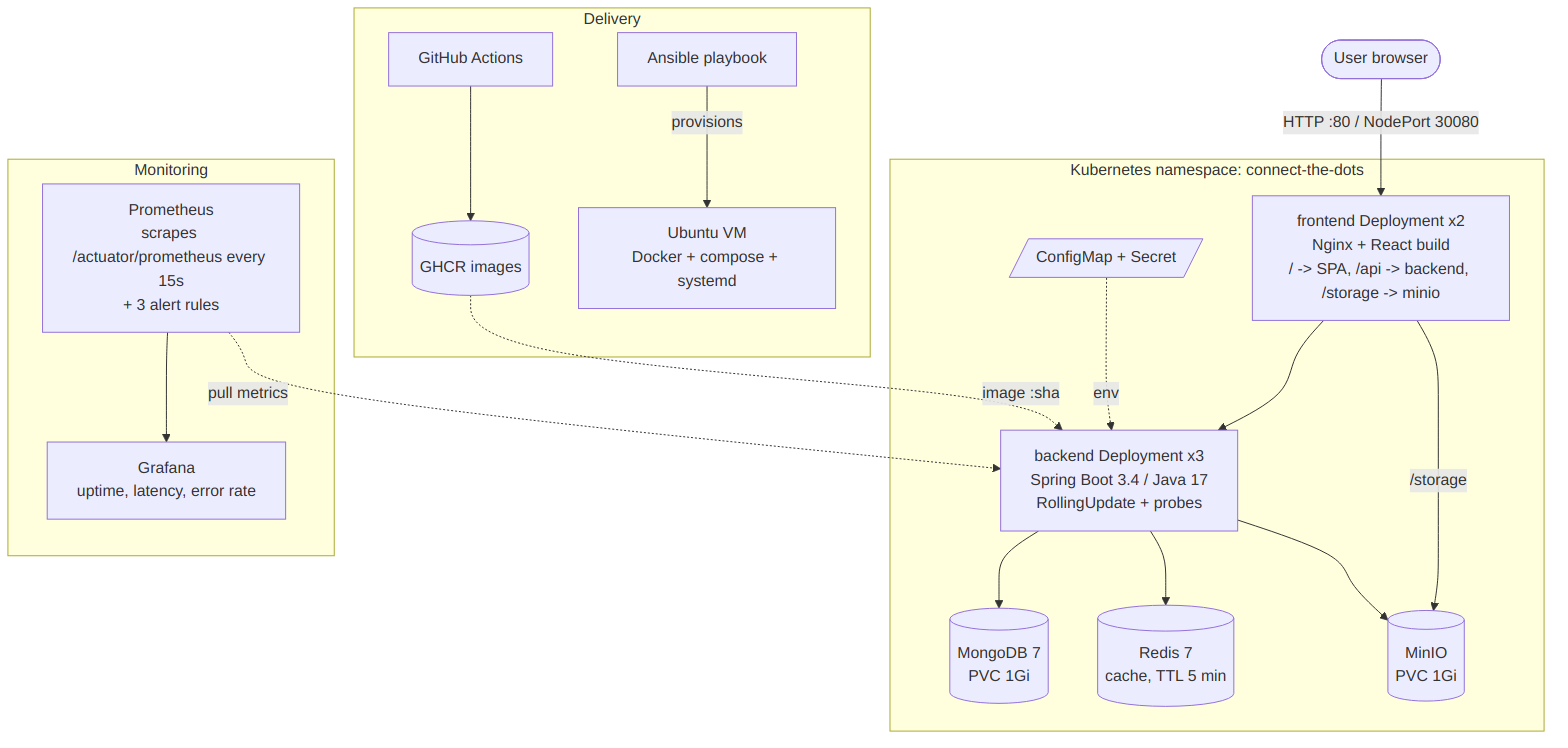
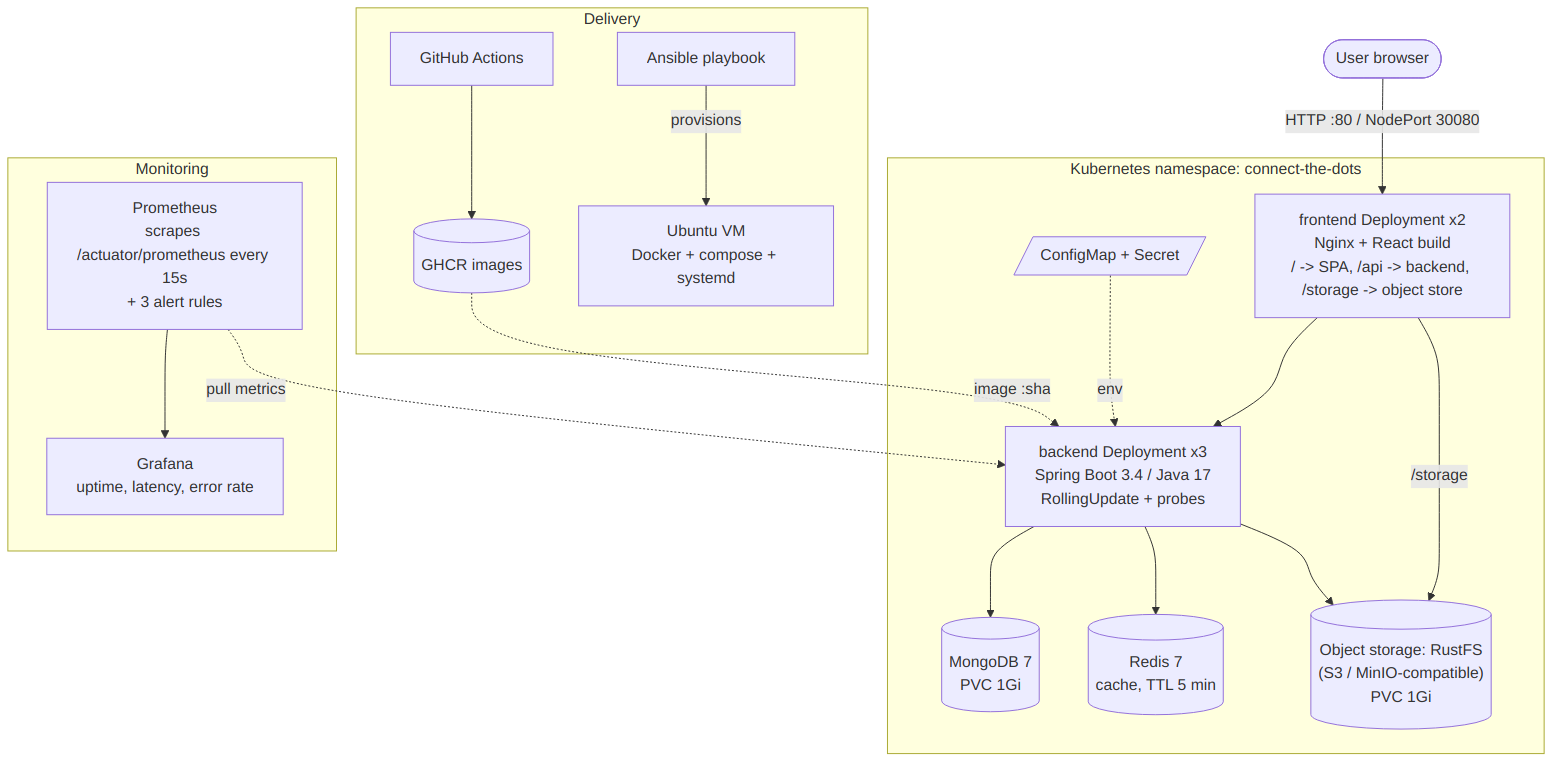
Replace MinIO image with RustFS (MinIO images removed from Docker Hub)

diff --git a/DEVOPS.md b/DEVOPS.md
@@ -20,7 +20,7 @@ The application is five services behind one entry point:
 
 - **Nginx + React (frontend)** — serves the single-page app and acts as a *reverse proxy* (a server that receives every request and forwards it to the right internal service): `/` → static files, `/api/*` → backend, `/storage/*` → MinIO.
 - **Spring Boot backend** — the only service that talks to the data stores.
-- **MongoDB** stores metadata, **Redis** caches the metadata list for 5 minutes, **MinIO** (an S3-compatible object store) stores uploaded files.
+- **MongoDB** stores metadata, **Redis** caches the metadata list for 5 minutes, **an S3-compatible object store** stores uploaded files. This was MinIO; it is now **RustFS** under the same service name `minio` (see Challenges).
 
 **What was changed in the application to support DevOps work, and why:**
 
@@ -179,7 +179,7 @@ bash scripts/generate-traffic.sh http://localhost 300
 3. **Spring Boot's slow start vs. liveness probes.** Spring Boot takes 20–40 s to start. A liveness probe alone would kill the JVM before it finished starting and cause a restart loop, so a `startupProbe` holds off liveness checks for up to 150 s.
 4. **Liveness must not depend on databases.** If Redis goes down and liveness checked Redis, Kubernetes would restart every healthy backend pod for nothing. Liveness/readiness groups check the app itself.
 5. **Hard-coded config and a committed `.env`.** Moved config to environment variables (ConfigMap/Secret, Ansible template with mode 0600).
-6. **Smoke test failed on the first real pipeline run (HTTP 503).** Every pod had rolled out and the frontend responded, but `/api/health` returned 503 because MinIO was still starting. The workflow had only waited for MongoDB and the backend, then checked health once: a race condition. Fix: wait for every deployment's rollout, and retry the health check for up to 2 minutes. Lesson: a pod being *Ready* only means that pod is ready, not that everything it depends on is.
+6. **MinIO disappeared from Docker Hub.** The first post-merge pipeline run deployed everything except storage. The backend answered `/api/health` with 503. A second run, which waited for every service, showed the real cause: the MinIO pod never became ready. Locally, `docker compose` failed with *pull access denied for minio/mc, repository does not exist*. MinIO stopped publishing free images in October 2025 and deleted its Docker Hub repositories in September 2026, so the original project's compose file no longer works for anyone. Fix: replace it with **RustFS**, an Apache-2.0, S3-API-compatible drop-in on the same port. The service keeps the name `minio`, so `nginx.conf`, the backend config and the MinIO Java SDK needed no code changes. The bucket-creation helper (`minio/mc`) was dropped because the backend already creates the bucket on first upload. The smoke test was also hardened: it now waits for every deployment and retries the health check, because a pod being *Ready* doesn't mean its dependencies are. Lessons: pin and mirror third-party images you depend on; an S3-compatible API (rather than a specific vendor) made the swap a configuration change instead of a rewrite.
 7. **GHCR needs lowercase image names** but the owner is `Riya54671`; the pipeline lowercases it.
 8. **Testing deployments without a paid cluster.** Solved with kind inside the CI runner.
 
@@ -194,7 +194,8 @@ bash scripts/generate-traffic.sh http://localhost 300
 
 ## 8. Known limitations / next steps
 
-- MongoDB, Redis and MinIO run as single replicas (fine for a demo, not HA). Production would use StatefulSets or managed services.
+- MongoDB, Redis and the object store run as single replicas (fine for a demo, not HA). Production would use StatefulSets or managed services.
+- `rustfs/rustfs:latest` should be pinned to a specific version (and ideally mirrored to our own registry) once a release is chosen; `latest` can change underneath you, which is exactly how MinIO broke.
 - Secrets in `k8s/01-config.yaml` and `group_vars` are demo values; use Ansible Vault / Sealed Secrets / an external secret manager.
 - The deploy stage targets an ephemeral kind cluster; pointing it at a real cluster means adding a kubeconfig secret and an approval on the `staging` environment.
 - No Alertmanager configured, so alerts are visible in Prometheus but not sent anywhere.
